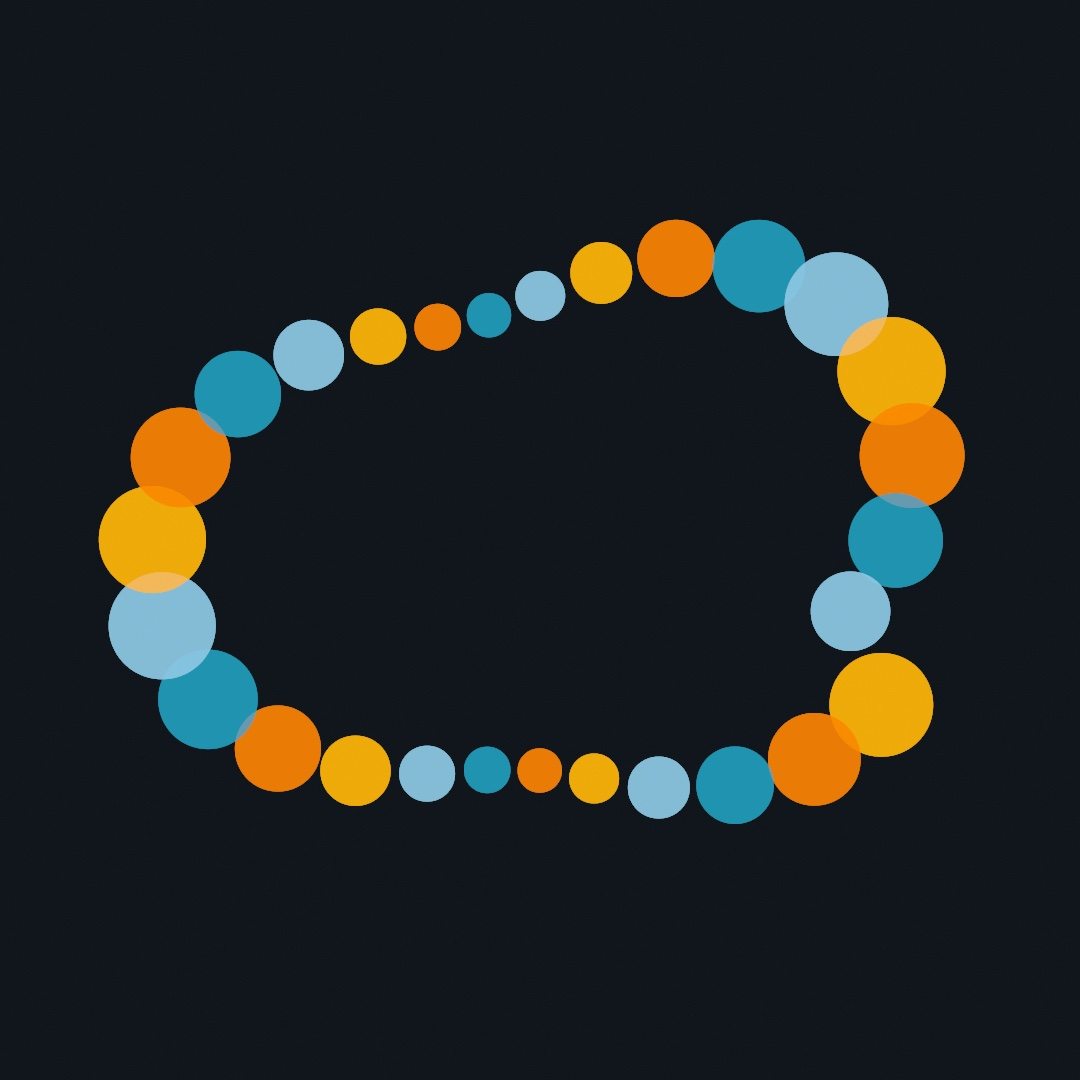
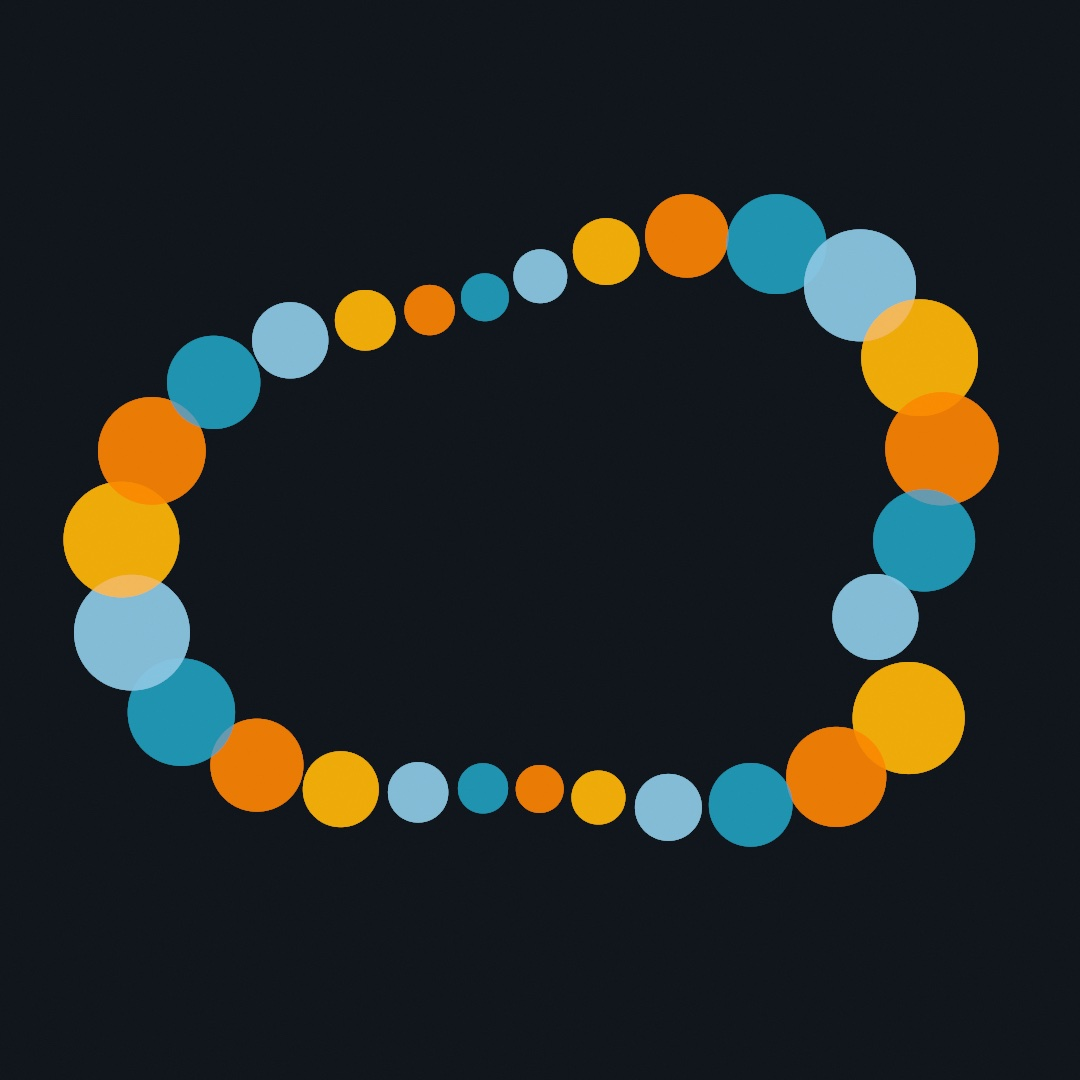
The chapter 1 to 3 figures re-rendered after the reshape. HelloMotion places by uv and scale, so its ring grows; ColorField grows its ramp from an analogous harmony of its base blended in OKLCH, so the field runs teal to magenta through the violet base, and its alt text now says what the picture sho
Claude-Session: https://claude.ai/code/session_01WqLtBAH3GLezrn1E1FY2W7

Changed region(s): [[0.0611, 0.1528, 0.9472, 0.7944]]

diff --git a/Guide/02-Color.md b/Guide/02-Color.md
@@ -4,7 +4,7 @@
 
 # 2. Color that works
 
-<img src="Images/02-Color/ColorField.jpg" alt="A quilt of colored cells sampling one harmony of a violet diagonally, each cell jittered off its neighbors, on a dark ground" width="560">
+<img src="Images/02-Color/ColorField.jpg" alt="A quilt of square cells on a near-black ground, teal at the top left, the violet base through the middle, magenta at the bottom right, each cell jittered a step off its diagonal neighbors" width="560">
 
 Color is the first thing a viewer reads in a sketch, and it is where the arithmetic works against you. Mixes turn to mud, palettes fight each other, and colors read brighter or darker than their numbers say they should. This chapter is the set of tools that avoid all of that. You'll learn the ways to name a color, and how to think in hue rather than in amounts of light. You'll mix in a way that trusts your eye and keep hues at one weight. Then you'll grow a palette from one color, carry palettes and ramps around as kits, and paint with a gradient. It ends in the sketch above, a color field built on one harmony, which redraws itself as a fresh variation on every click. After the sketch, a family section mixes colors the way paint does.
 
